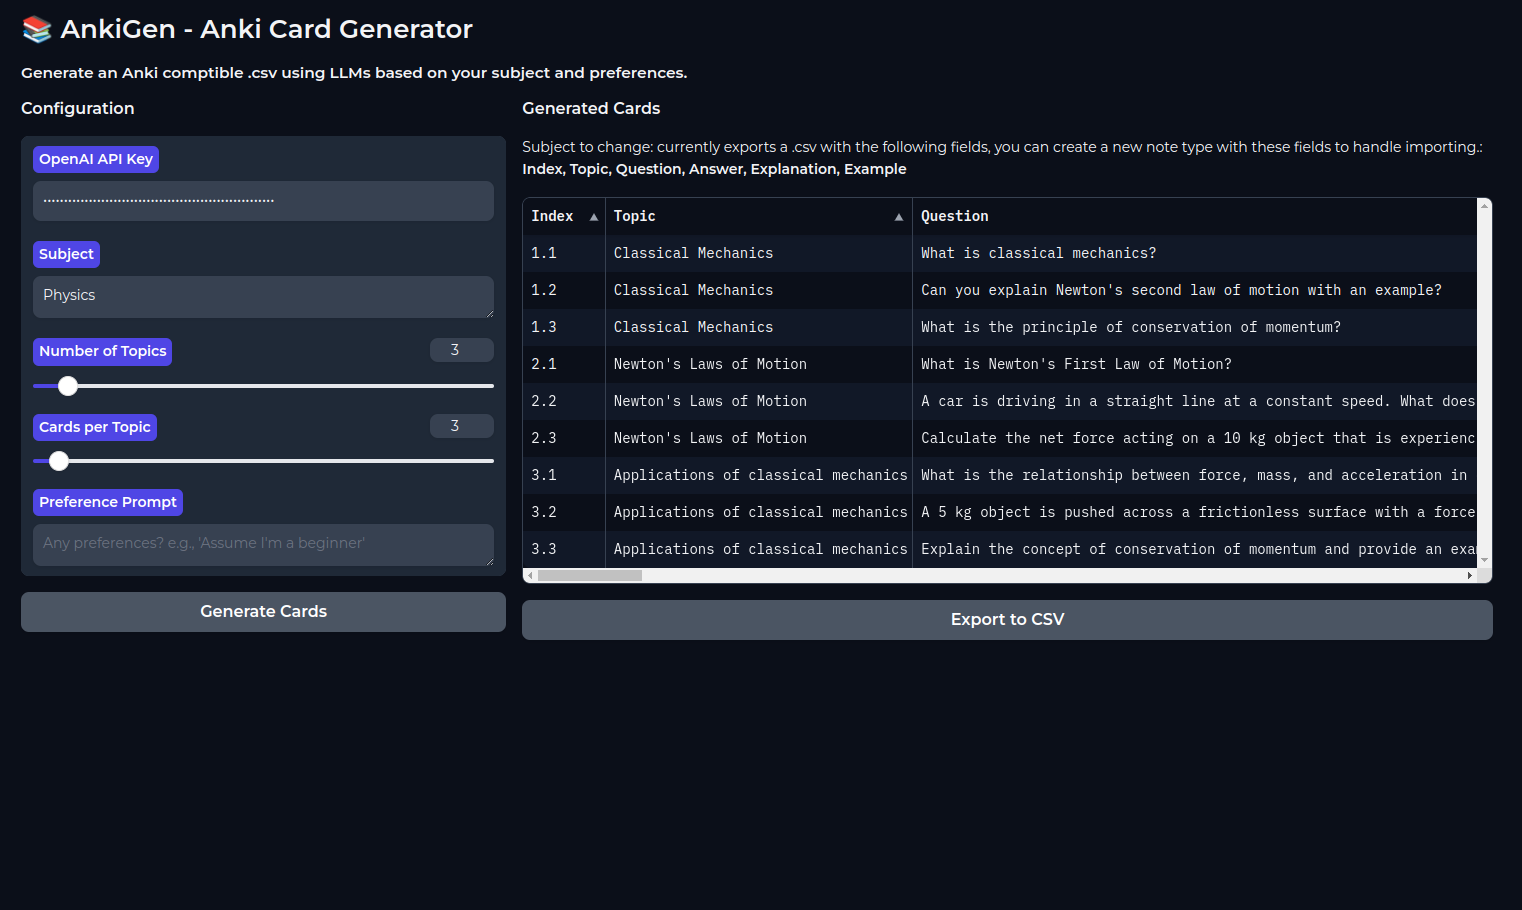
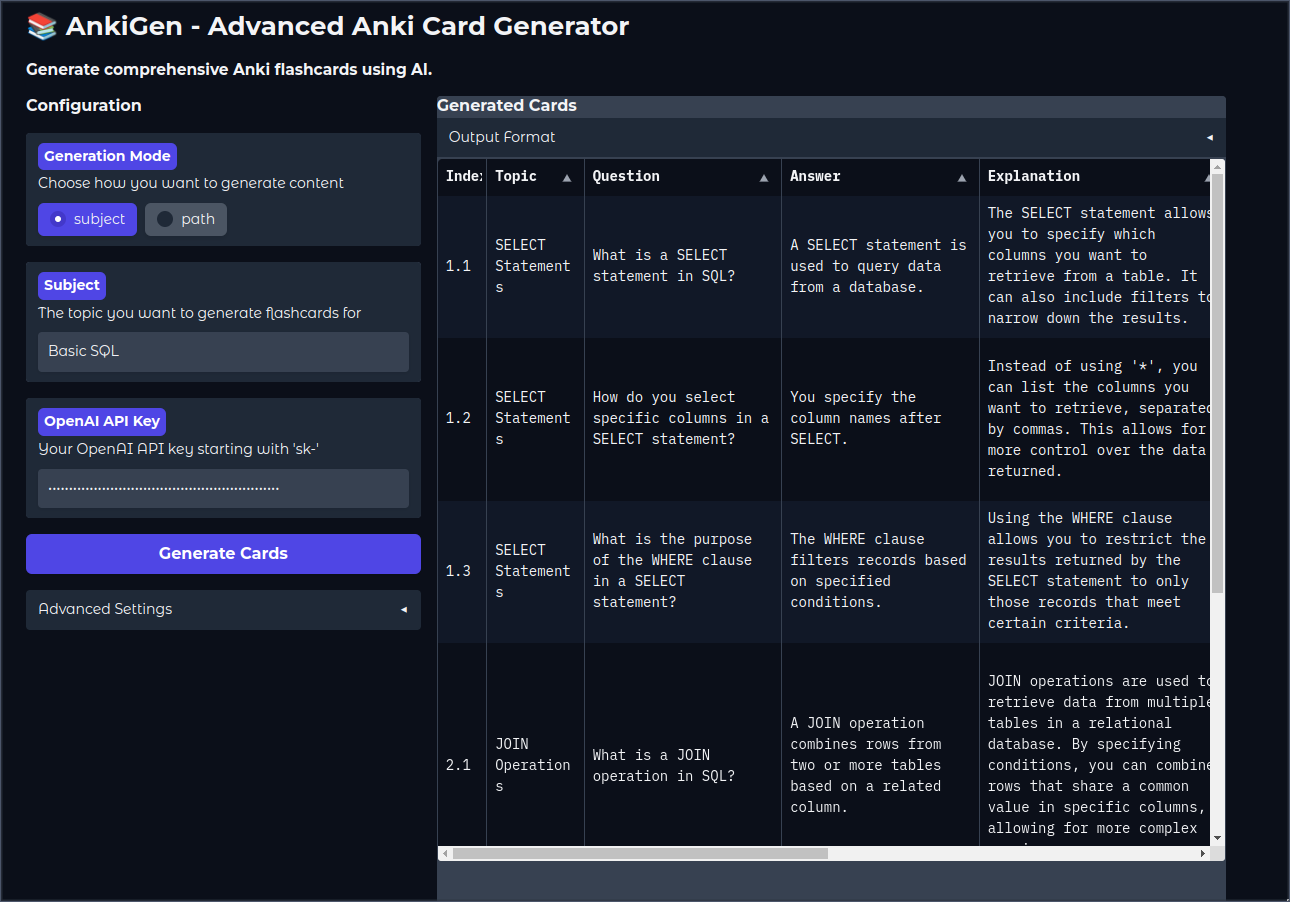
README update

diff --git a/README.md b/README.md
@@ -17,13 +17,13 @@ AnkiGen is a Gradio-based web application that generates Anki-compatible CSV fil
 - Generate Anki cards for various subjects
 - Customizable number of topics and cards per topic
 - User-friendly interface powered by Gradio
-- Exports to CSV format compatible with Anki import
-- Utilizes LLMs for high-quality content generation
+- Exports to CSV for manual import or .apkg format with out of the box css styling
+- Utilizes OpenAI's structured output to mimic chain of thought to minimize hallucinations
 
 ## TODO
 
-- [ ] model dropdown - uses gpt4o-mini by default
-- [ ] cloze (checkbox?)
+- [ ] cloze cards? (checkbox?)
+- [ ] File upload / parsing longer texts / books as input?
 
 ## Screenshot
 
@@ -32,18 +32,21 @@ AnkiGen is a Gradio-based web application that generates Anki-compatible CSV fil
 
 ## Installation for Local Use
 
+Preferred usage: [uv](https://github.com/astral-sh/uv)
+
 1. Clone this repository:
 
-```
+```bash
 git clone https://github.com/brickfrog/ankigen.git
 cd ankigen
+uv venv
 ```
 
 
 2. Install the required dependencies:
 
-```
-pip install -r requirements.txt
+```bash
+uv pip install -r requirements.txt
 ```
 
 3. Set up your OpenAI API key (required for LLM functionality).
@@ -52,8 +55,8 @@ pip install -r requirements.txt
 
 1. Run the application:
 
-```
-gradio app.py --demo-name ankigen
+```bash
+uv run gradio app.py --demo-name ankigen
 ```
 
 2. Open your web browser and navigate to the provided local URL (typically `http://127.0.0.1:7860`).
@@ -67,25 +70,13 @@ gradio app.py --demo-name ankigen
 
 4. Review the generated cards in the interface.
 
-5. Click "Export to CSV" to download the Anki-compatible file.
-
-## CSV Format
-
-The generated CSV file includes the following fields:
-- Index
-- Topic
-- Question
-- Answer
-- Explanation
-- Example
-
-You can create a new note type in Anki with these fields to handle importing.
+5. Click "Export to CSV" to download the Anki-compatible file or Export to  Anki Deck to export as a .apkg that can be imported into Anki.
 
 ## Development
 
 This project is built with:
 - Python 3.12
-- Gradio 4.44.0
+- Gradio 5.13.1
 
 To contribute or modify:
 1. Make your changes in `app.py`
